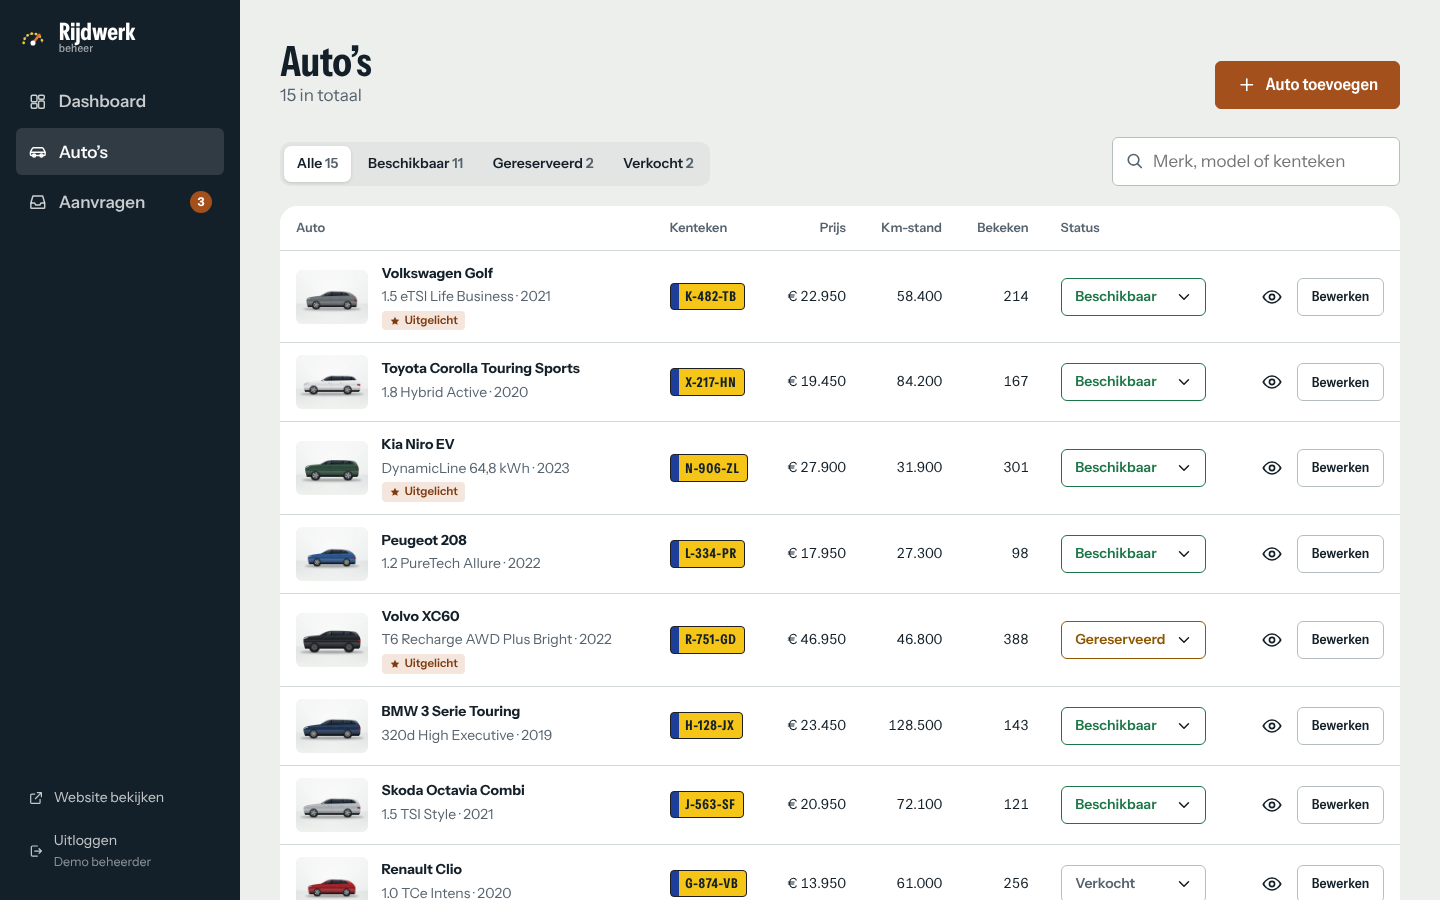
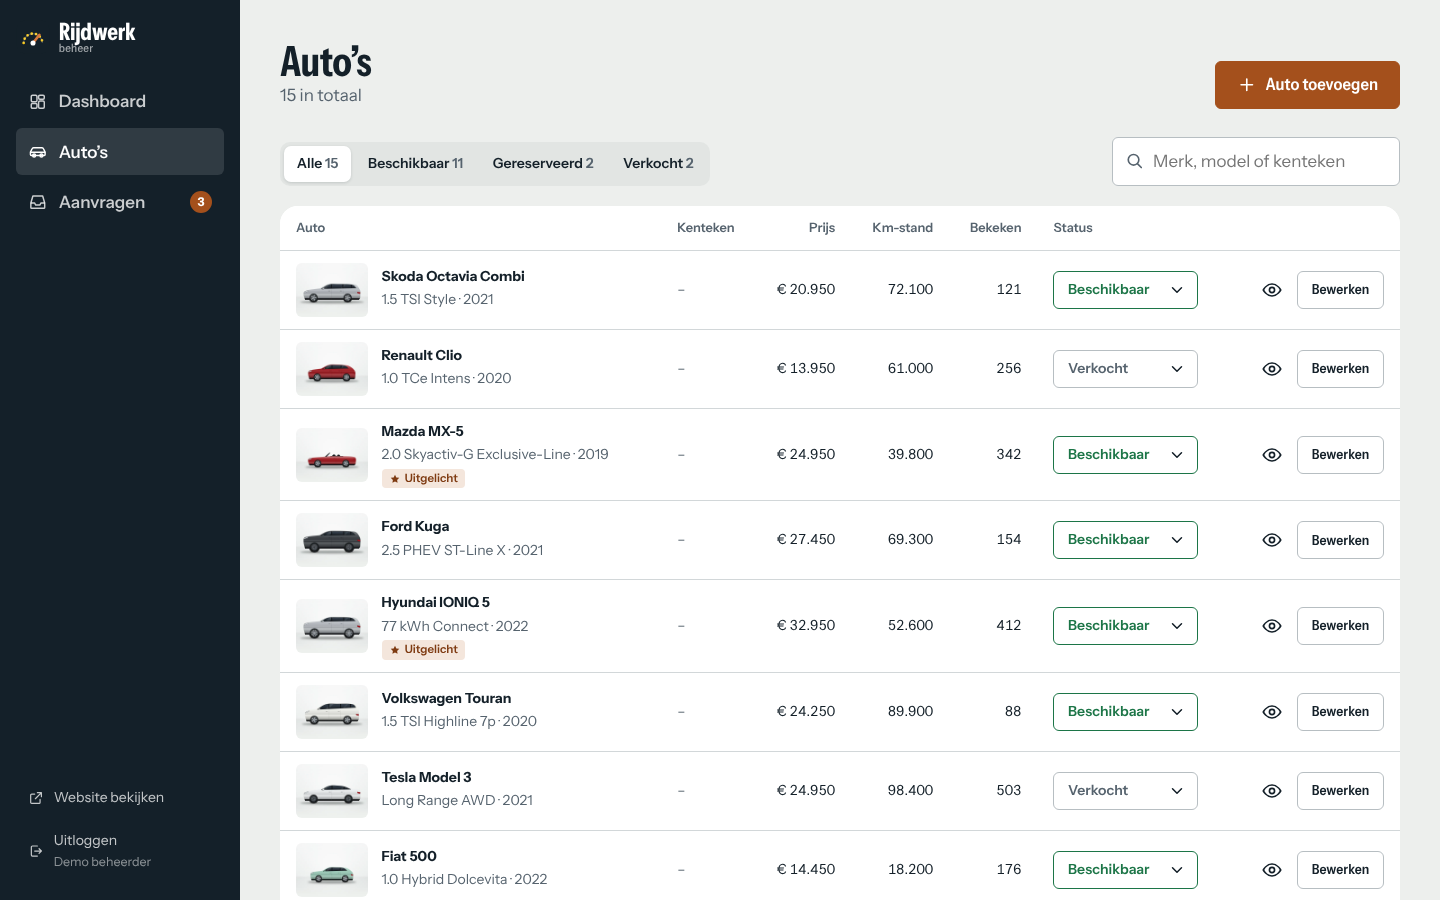
Remove license plates from demo cars
The made-up demo plates turned out to belong to real vehicles in the
RDW register. Demo listings now have no plate, so no real plate is tied
to a fictional ad or shown in public screenshots.

Claude-Session: https://claude.ai/code/session_01J5AyksJUuSs2QonnSYGHgw

diff --git a/README.md b/README.md
@@ -134,7 +134,7 @@ docs/screenshots/
    - `npm install` and `npm run build` for the minified assets.
    - `npm run demo` to regenerate the demo renders and `demo.sql`.
 
-**RDW lookup:** `RDW_DRIVER=live` calls the real RDW Open Data API. `RDW_DRIVER=fake` uses the files in `tests/fixtures/` instead. Try `K-482-TB`, `N-906-ZL`, `HX-12-XS` (malicious response), `MZ-12-LB` (motorcycle) and `XX-999-X` (outage). An optional free app token from opendata.rdw.nl goes in `RDW_APP_TOKEN`.
+**RDW lookup:** `RDW_DRIVER=live` calls the real RDW Open Data API. `RDW_DRIVER=fake` uses the files in `tests/fixtures/` instead. Try `K-482-TB`, `N-906-ZL`, `HX-12-XS` (malicious response), `MZ-12-LB` (motorcycle) and `XX-999-X` (outage). With the live driver these plates may belong to real cars, which is why the demo cars have no plate. An optional free app token from opendata.rdw.nl goes in `RDW_APP_TOKEN`.
 
 **Mail:** with `MAIL_DRIVER=log`, every e-mail is saved as an `.eml` file in `storage/mail/`. You can open these in Outlook or Thunderbird.
 
